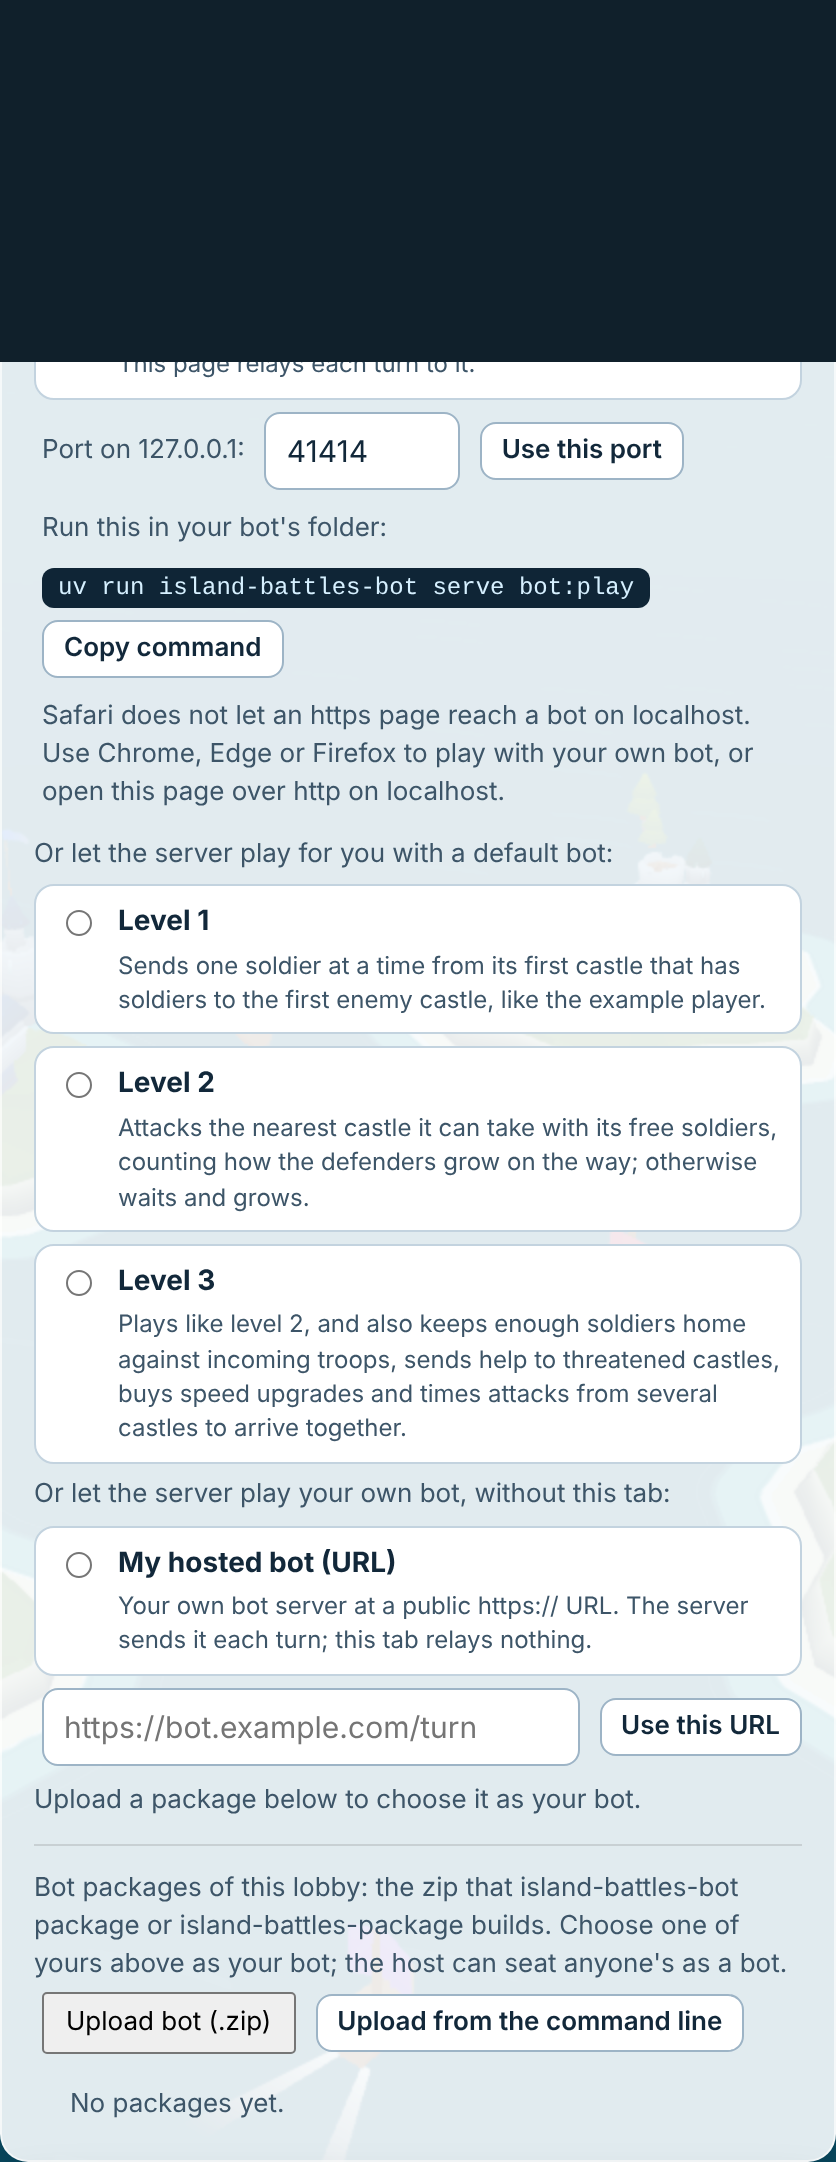
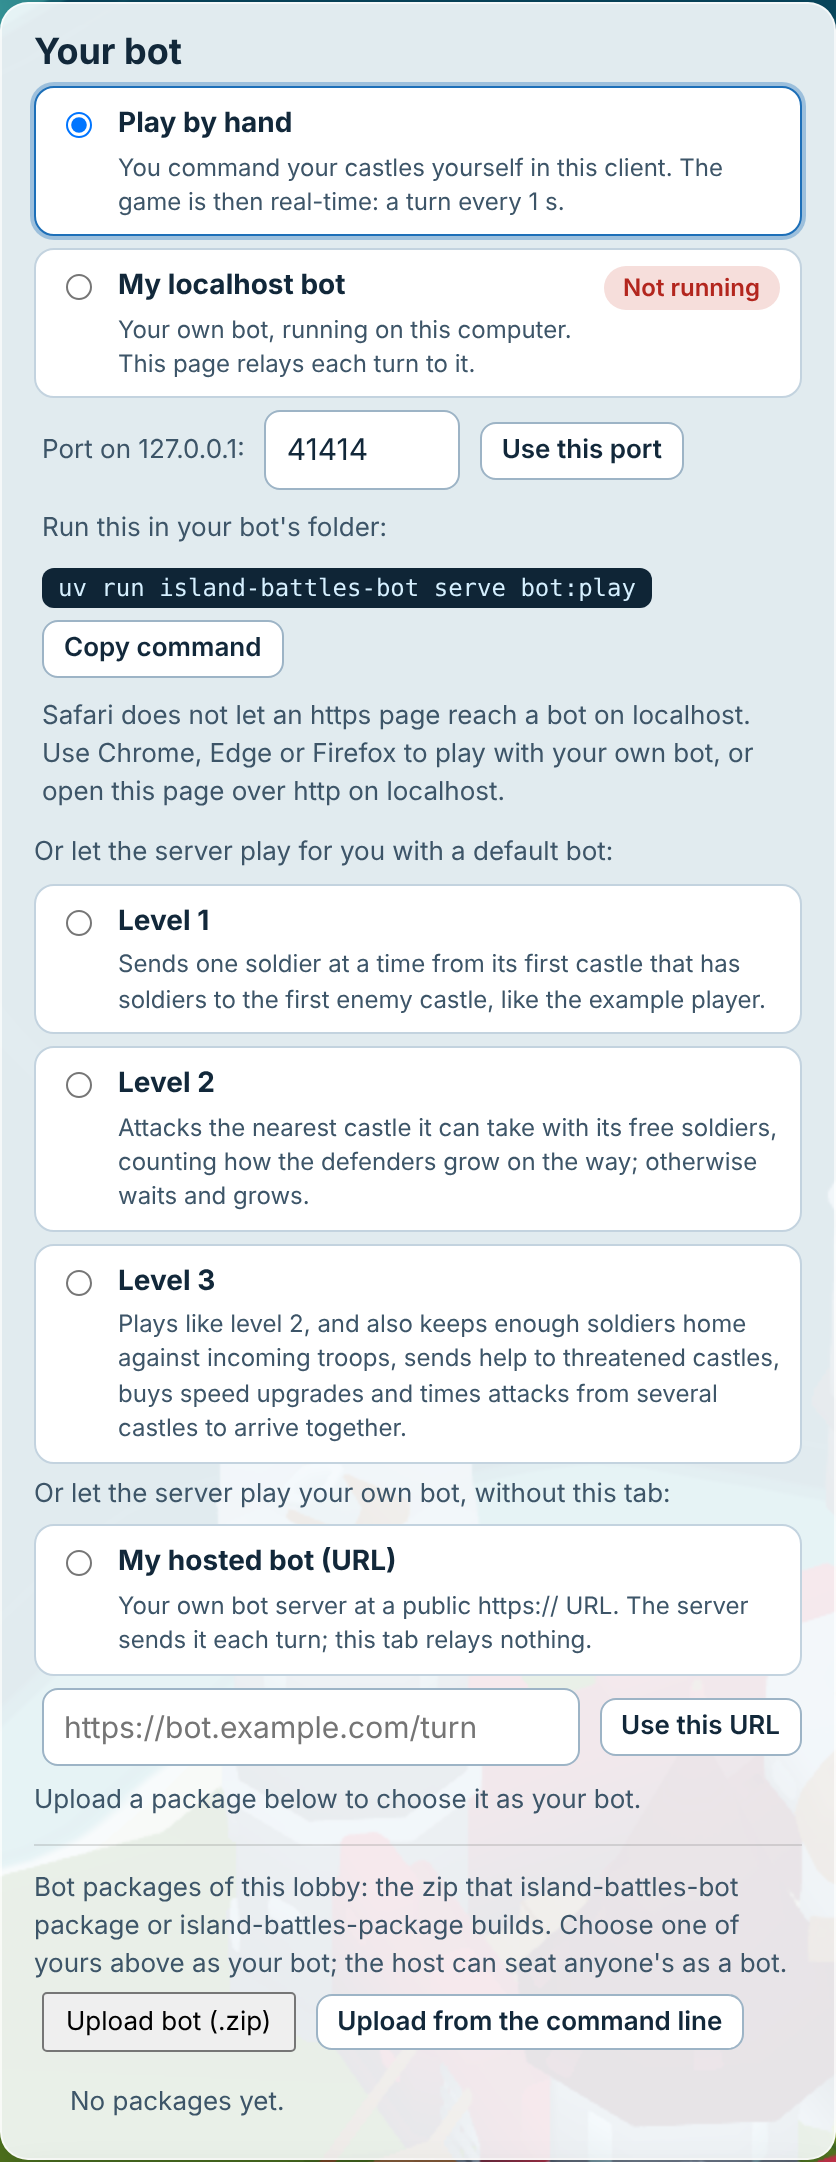
Docs: retake the Play by hand screenshots; say only people play by hand
The room shots now show the settings line "Real time: a turn every 1 s" and the
member row "Plays by hand"; the 450 px picker starts at the Play by hand radio.
The anyPlaysByHand comment no longer says a seat can.

Claude-Session: https://claude.ai/code/session_01R65BA6vJ4Tj887LHF4LLaG

diff --git a/clients/island-battles-web/src/ui/lobby/roomModel.ts b/clients/island-battles-web/src/ui/lobby/roomModel.ts
@@ -424,7 +424,7 @@ export function startBlocker(
   return null;
 }
 
-/** Whether any member, person or seat, plays by hand, which makes the game real-time. */
+/** Whether any member plays by hand, which makes the game real-time. Only people can: a bot seat never plays by hand. */
 export function anyPlaysByHand(room: RoomModel): boolean {
   return [
     ...room.teams.flatMap((team) => team.members),
